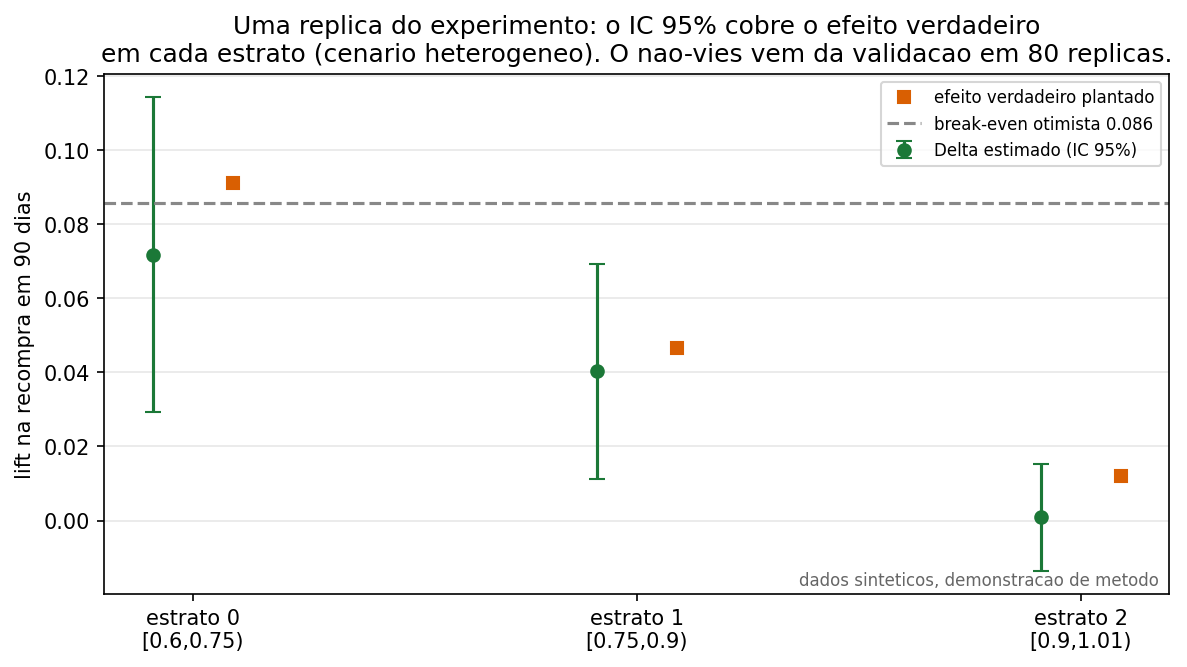
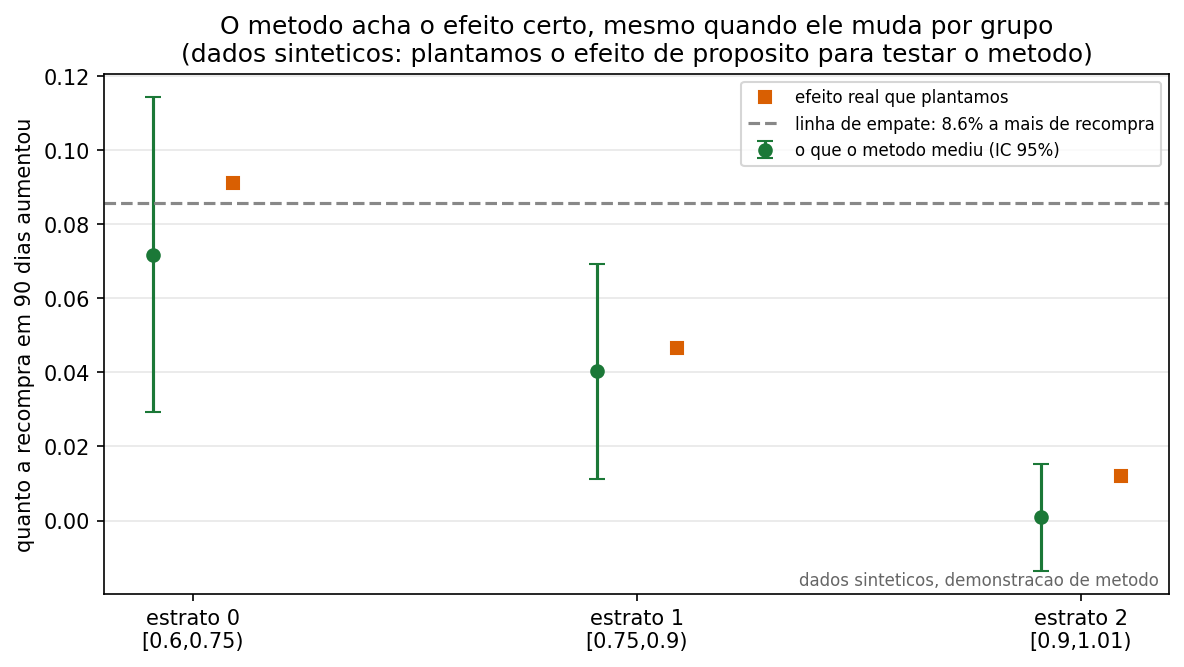
style(deploy): reduz e destaca a aba causal, reescreve textos e graficos em linguagem direta
Graficos com menos de 34rem de largura e a aba "Experimentacao causal" com
identidade visual propria (pill verde, painel com fundo destacado). Titulos e
legendas dos 5 graficos trocam jargao estatistico (ECE, Delta, break-even) por
linguagem direta, e o grafico de decisao ganha rotulos "lucro"/"prejuizo". Os
textos de cada passo passam a responder uma pergunta em portugues simples, com
resumo no topo e no fim explicando o que a aba prova e o que falta pra decidir
de verdade.

diff --git a/docs/index.html b/docs/index.html
@@ -83,47 +83,56 @@
     <section id="painel-causal" role="tabpanel" aria-labelledby="tab-causal" hidden>
       <div class="intro-row">
         <div><p class="section-label">Continuidade</p><h2>Prever o risco não prova que a ação funciona</h2></div>
-        <p>O ROI de 222% da aba anterior depende de premissas nunca medidas. Esta aba testa o método com rigor.</p>
+        <p>O ROI de 222% da aba anterior é uma conta feita em cima de dois números que ninguém mediu. Esta aba constrói a régua que mediria de verdade.</p>
       </div>
       <p class="synthetic-flag">Dados sintéticos, demonstração de método. Nenhum número aqui é resultado real do cupom.</p>
 
+      <div class="causal-resumo">
+        <p><strong>Resumo em uma frase:</strong> construímos e testamos o instrumento que decidiria se vale escalar o cupom, mas ele ainda não tem os dois números reais que faltam: quantos clientes já recompram sozinhos, e quanto vale reter um cliente. Os passos 1 e 2 provam que o instrumento funciona direito. O passo 4 mostra por que, sem esses dois números, ninguém consegue afirmar hoje se o cupom paga a própria conta.</p>
+      </div>
+
       <div class="causal-block">
         <img src="assets/causal/reliability_v1.png" alt="Curva de confiabilidade do modelo v1 antes e depois da recalibração isotônica" loading="lazy">
-        <div><h3>1. A probabilidade era confiável?</h3><p>Antes de usar P(Detrator) como corte de decisão, medimos se ela reflete risco real. O modelo original subestimava risco em toda a faixa (ECE 0,10). Recalibração isotônica corrigiu para ECE 0,013, <strong>achado real</strong> medido no dado da Fase 1.</p></div>
+        <div><h3>1. O termômetro de risco estava calibrado?</h3><p>Antes de usar "40% de risco de virar detrator" para decidir qualquer coisa, precisamos saber se esse número bate com a realidade. No dado real da Fase 1, o modelo original errava para menos em toda a faixa: dizia, por exemplo, 40% quando o risco de verdade era maior. Corrigimos essa distorção (recalibração isotônica) e o erro médio caiu de 10 pontos percentuais para 1,3. <strong>Achado real</strong>, medido no dado da Fase 1, não sintético. Sem esse ajuste, qualquer conta feita em cima da probabilidade estaria em cima de um número torto.</p></div>
       </div>
 
       <div class="causal-block">
         <img src="assets/causal/validacao_estimador.png" alt="Viés e cobertura do intervalo de confiança do estimador em 60 réplicas" loading="lazy">
-        <div><h3>2. A máquina de análise está correta?</h3><p>Antes de confiar em qualquer resultado, rodamos 60 réplicas com sementes diferentes: o estimador recupera o efeito plantado sem viés, e o intervalo de confiança cobre o valor verdadeiro ~95% das vezes.</p></div>
+        <div><h3>2. A régua de medir passou no teste antes de valer</h3><p>Antes de confiar na fórmula que vai dizer "o cupom funcionou ou não", testamos essa fórmula em 60 cenários onde já sabíamos a resposta certa de antemão (nós mesmos plantamos o efeito). Resultado: a fórmula acerta o valor certo, em média, e quando ela diz "95% de confiança" ela realmente acerta perto de 95% das vezes. Se esse teste falhasse, nenhum número dos passos seguintes seria confiável.</p></div>
       </div>
 
       <div class="causal-block">
         <img src="assets/causal/efeito_por_estrato.png" alt="Efeito estimado por estrato de risco, com intervalo de confiança" loading="lazy">
-        <div><h3>3. O efeito (sintético) por estrato</h3><p>Um A/B estratificado com sorteio 75/25 dentro de cada faixa de risco. O efeito plantado no gerador varia por estrato: maior no detrator recuperável, quase nulo no detrator quase certo.</p></div>
+        <div><h3>3. O método acha o efeito certo, grupo por grupo</h3><p>Simulamos um A/B de verdade: sorteamos clientes entre "recebe cupom" e "não recebe", separados em três grupos por nível de risco. Plantamos um efeito diferente em cada grupo de propósito, maior no detrator ainda recuperável, quase nulo no detrator quase certo, para ver se o método enxerga essa diferença. Ele enxerga: em todos os grupos, o que o método mediu bate com o efeito real que plantamos, dentro da margem de erro esperada.</p></div>
       </div>
 
       <div class="causal-block">
-        <img src="assets/causal/decisao_superficie.png" alt="Distribuição da margem incremental por cliente tratado, propagando incerteza do efeito e do valor do cliente" loading="lazy">
-        <div><h3>4. A decisão econômica</h3><p>Margem = efeito × valor do cliente retido − custo da ação. O valor do cliente não é medido (varia entre R$ 105 e R$ 350); por isso a maioria dos cenários cai em <em>zona morta</em>, não em "escalar": a incerteza real é propagada, não escondida.</p></div>
+        <img src="assets/causal/decisao_superficie.png" alt="Lucro por cliente tratado em função do valor do cliente retido, com faixa de incerteza" loading="lazy">
+        <div><h3>4. A pergunta que decide tudo: vale a pena escalar?</h3><p>Cada linha do gráfico é um grupo de risco; o eixo horizontal é o número que ainda não medimos, quanto vale reter um cliente (a faixa laranja, entre R$ 105 se contarmos só a margem e R$ 350 se contarmos a receita cheia). Abaixo da linha zero é prejuízo, o cupom custou mais do que trouxe; acima é lucro. Repare que a linha "total" cruza de prejuízo para lucro bem no meio da faixa laranja: com os dados que temos hoje, não dá para afirmar se o cupom se paga ou não. Essa incerteza não é falha do método, é a informação real que falta. Decidir escalar sem medir o valor do cliente no CRM seria apostar, não decidir.</p></div>
       </div>
 
       <div class="causal-block">
-        <img src="assets/causal/sensibilidade_p0.png" alt="Duração necessária do experimento em função do efeito mínimo detectável" loading="lazy">
-        <div><h3>5. Quanto tempo o experimento levaria</h3><p>Um efeito no break-even otimista é detectável em ~3 meses no estrato menor; um efeito intermediário estoura o teto de 6 meses. Dimensionado antes de rodar, não depois.</p></div>
+        <img src="assets/causal/sensibilidade_p0.png" alt="Duração necessária do experimento em função da taxa de recompra sem ação" loading="lazy">
+        <div><h3>5. Quanto tempo levaria para ter certeza</h3><p>Rodar esse teste com clientes reais não é instantâneo. Quanto menos clientes recompram sozinhos, sem nenhuma ação, mais tempo o teste precisa rodar para separar sinal de ruído, porque o efeito do cupom fica mais difícil de distinguir da variação normal. Por isso travamos um teto de 6 meses: se depois desse prazo o resultado ainda não for claro, a conclusão honesta é "o efeito, se existe, é pequeno demais para valer a pena no volume atual", não "vamos continuar testando para sempre".</p></div>
       </div>
 
       <div class="pavc-table">
-        <h3>O que quebra sem as mitigações do PAVC</h3>
+        <h3>O que quebra sem as proteções do desenho</h3>
+        <p class="section-note">Um experimento mal desenhado pode dar um resultado errado sem que ninguém perceba. A tabela mostra o mesmo cenário (efeito real "forte") rodado três vezes: uma com todas as proteções do desenho, e duas ignorando uma proteção de cada vez. "Δ medido" é o que o experimento diria ter visto; "Δ verdadeiro" é o efeito que de fato plantamos; "P(lucro&gt;0)" é a chance de a decisão final dar lucro.</p>
         <table>
-          <caption>Cenário base: efeito verdadeiro "forte". Cada linha ignora uma mitigação</caption>
-          <thead><tr><th>Cenário</th><th>Δ medido</th><th>Δ verdadeiro</th><th>P(margem&gt;0)</th></tr></thead>
+          <caption>Cenário base: efeito verdadeiro "forte". Cada linha ignora uma proteção do desenho</caption>
+          <thead><tr><th>Cenário</th><th>Δ medido</th><th>Δ verdadeiro</th><th>P(lucro&gt;0)</th></tr></thead>
           <tbody>
-            <tr><td>Com todas as mitigações (desenho do spec)</td><td>0,1401</td><td>0,1509</td><td>0,555</td></tr>
+            <tr><td>Com todas as proteções (desenho do spec)</td><td>0,1401</td><td>0,1509</td><td>0,555</td></tr>
             <tr><td>Contaminação do controle 30% ignorada</td><td>0,0950</td><td>0,1509</td><td>0,140</td></tr>
-            <tr><td>Janela ancorada na ação, não na entrega</td><td>0,1334</td><td>0,1509</td><td>0,510</td></tr>
+            <tr><td>Prazo contado a partir da ação, não da entrega</td><td>0,1334</td><td>0,1509</td><td>0,510</td></tr>
           </tbody>
         </table>
-        <p class="section-note">Ignorar a contaminação do controle puxa o efeito medido para baixo em quase um terço, viés que mata um programa que funcionava (Erro A).</p>
+        <p class="section-note">Ignorar a contaminação do controle (clientes do grupo controle que recebem o cupom por outro canal) puxa o efeito medido para baixo em quase um terço. Na prática, isso mataria um programa que na verdade funcionava.</p>
+      </div>
+
+      <div class="causal-resumo">
+        <p><strong>Se isso fosse um projeto real</strong>, o próximo passo seria medir os dois números que faltam (quantos clientes recompram sozinhos, quanto vale reter um cliente) e rodar essa mesma régua nos dados de verdade. Ela decidiria sozinha, sem depender de opinião, se o cupom escala, fica em teste um pouco mais, ou é desligado.</p>
       </div>
 
       <p class="section-note">Desenho completo: <a href="https://github.com/luizmaibashi/Tech-Challenge-Fase1-NPS/blob/main/docs/adr/0002-arco-de-experimentacao-causal.md">ADR-0002</a> e <a href="https://github.com/luizmaibashi/Tech-Challenge-Fase1-NPS/blob/main/docs/spec/0002-experimento-causal.md">spec</a>. Débito de engenharia resolvido: <a href="https://github.com/luizmaibashi/Tech-Challenge-Fase1-NPS/blob/main/docs/adr/0003-scorer-unico-para-o-experimento-causal.md">ADR-0003</a>. Protótipo completo: <a href="https://github.com/luizmaibashi/Tech-Challenge-Fase1-NPS/blob/main/notebooks/02_experimento_causal.ipynb">notebook</a>.</p>

diff --git a/docs/assets/style.css b/docs/assets/style.css
@@ -1,9 +1,14 @@
 :root{font-size:18px;--ink:#17221b;--muted:#526257;--canvas:#f7f8f2;--card:#fff;--line:#cfd9ce;--green:#315a40;--lime:#b6df72;--orange:#bc4e18;--soft:#e8f0df;--space:clamp(1rem,3vw,2.5rem)}*{box-sizing:border-box}body{margin:0;background:var(--canvas);color:var(--ink);font:1rem/1.6 system-ui,sans-serif}.skip-link{position:absolute;left:-999px}.skip-link:focus{left:1rem;top:1rem;background:#fff;padding:.5rem;z-index:3}.hero{padding:clamp(2.5rem,8vw,7rem) var(--space);background:var(--ink);color:#fff}.hero-inner{max-width:72rem;margin-left:auto;margin-right:auto}.eyebrow,.section-label{font-size:.78rem;text-transform:uppercase;letter-spacing:.12em;font-weight:700;color:var(--orange)}.hero .eyebrow{color:var(--lime)}h1{font-size:clamp(3rem,8vw,7rem);line-height:.9;letter-spacing:-.06em;margin:.4rem auto 1rem}h2{line-height:1.05;max-width:22ch}.lede{font-size:clamp(1.1rem,2vw,1.45rem);max-width:46ch}.decision-rail{display:grid;grid-template-columns:auto 1fr;gap:.3rem 1rem;border-top:1px solid #526257;margin-top:2.5rem;padding-top:1rem}.decision-rail strong{color:var(--lime);font-size:1.3rem}.decision-rail small{grid-column:2;color:#ccd8cd}.shell{max-width:72rem;margin:auto;padding:var(--space)}.tabs{display:flex;gap:.5rem;overflow:auto;border-bottom:1px solid var(--line);margin-bottom:2.5rem}.tabs button{background:transparent;border:0;padding:1rem .25rem;margin-right:1.2rem;color:var(--muted);font:inherit;font-weight:700;cursor:pointer;border-bottom:3px solid transparent}.tabs button[aria-selected=true]{color:var(--ink);border-color:var(--orange)}button:focus-visible,input:focus-visible{outline:3px solid var(--orange);outline-offset:3px}.intro-row{display:grid;grid-template-columns:1fr minmax(12rem,20rem);gap:2rem;align-items:end;margin-bottom:2rem}.intro-row p{color:var(--muted)}.form-grid{display:grid;grid-template-columns:repeat(3,1fr);gap:1rem}.form-grid fieldset,.roi-form label,.model-grid article{border:1px solid var(--line);background:var(--card);padding:1rem;min-width:0}.form-grid legend{font-weight:800}.form-grid label,.roi-form label{display:grid;gap:.3rem;margin:.6rem 0;font-weight:650}input{width:100%;min-height:44px;border:1px solid #99a99c;border-radius:0;padding:.55rem;background:#fff;color:var(--ink);font:inherit}.primary{align-self:end;min-height:48px;background:var(--orange);color:#fff;border:0;border-radius:0;padding:.7rem 1rem;font:inherit;font-weight:800;cursor:pointer}.primary:disabled{opacity:.6}.status{align-self:end;color:var(--muted)}.hidden{display:none}.result{margin-top:2rem;border:2px solid var(--green);background:var(--soft);padding:clamp(1rem,3vw,2rem)}.result h3{font-size:1.5rem;margin:0}.action{font-weight:800;color:var(--green)}.action.risk{color:#8d260a}.probabilities,.metrics{display:grid;grid-template-columns:repeat(3,1fr);gap:1rem;margin-top:1rem}.probabilities div,.metrics div{background:#fff;padding:1rem;border-top:4px solid var(--green)}.probabilities span,.metrics span{display:block;color:var(--muted);font-size:.85rem}.probabilities strong,.metrics strong{font-size:1.5rem}.roi-form{display:grid;grid-template-columns:repeat(3,1fr);gap:1rem}.sensitivity{margin-top:2rem;overflow:auto}.sensitivity table{border-collapse:collapse;width:100%;background:#fff}.sensitivity th,.sensitivity td{padding:.65rem;border:1px solid var(--line);text-align:right}.sensitivity th{text-align:left}.model-grid{display:grid;grid-template-columns:repeat(3,1fr);gap:1rem}.model-grid h3{margin-top:0}.importance{margin-top:2rem;max-width:42rem}.importance div{display:grid;grid-template-columns:12rem 1fr 3rem;gap:.75rem;align-items:center;margin:.5rem 0}.bar{height:.7rem;background:var(--lime)}footer{padding:2rem var(--space);border-top:1px solid var(--line);color:var(--muted);font-size:.9rem}a{color:inherit}@media(max-width:760px){.intro-row,.form-grid,.roi-form,.model-grid{grid-template-columns:1fr}.decision-rail{grid-template-columns:1fr}.decision-rail small{grid-column:auto}.probabilities,.metrics{grid-template-columns:1fr 1fr}.importance div{grid-template-columns:8rem 1fr 2.5rem}}@media(prefers-reduced-motion:no-preference){.result{animation:rise .22s ease-out}@keyframes rise{from{opacity:0;transform:translateY(8px)}to{opacity:1;transform:none}}}
 .synthetic-flag{background:var(--soft);border-left:4px solid var(--orange);padding:.75rem 1rem;font-weight:700;margin-bottom:2rem}
 .causal-block{margin-bottom:3.5rem}
-.causal-block img{display:block;width:100%;margin:0 auto 1.5rem;border:1px solid var(--line);background:#fff}
+.causal-block img{display:block;width:100%;max-width:34rem;margin:0 auto 1.5rem;border:1px solid var(--line);background:#fff}
 .causal-block h3{margin-top:0;font-size:1.6rem}
 .causal-block p{color:var(--muted);max-width:68ch;font-size:1.1rem}
+#tab-causal{background:var(--soft);border-radius:999px;padding:.6rem 1.1rem;margin-right:.5rem;border-bottom:3px solid transparent}
+#tab-causal[aria-selected=true]{background:var(--green);color:#fff}
+#painel-causal{background:var(--soft);margin:0 calc(-1*var(--space));padding:2rem var(--space);border-top:1px solid var(--line);border-bottom:1px solid var(--line)}
+.causal-resumo{background:#fff;border:2px solid var(--green);padding:1.1rem 1.4rem;margin:1.5rem 0 2.5rem;font-size:1.05rem}
+.causal-resumo strong{color:var(--green)}
 .pavc-table{margin:2.5rem 0;overflow:auto;font-size:1.1rem}
 .pavc-table table{border-collapse:collapse;width:100%;background:#fff}
 .pavc-table th,.pavc-table td{padding:.75rem;border:1px solid var(--line);text-align:right}

diff --git a/experimento_causal/reports.py b/experimento_causal/reports.py
@@ -43,18 +43,17 @@ def fig_efeito_por_estrato(cen=None):
 
     fig, ax = plt.subplots(figsize=(8, 4.6))
     ax.errorbar(x - 0.09, est["delta"], yerr=Z * est["se"], fmt="o", color=C_TRAT,
-                capsize=4, label="Delta estimado (IC 95%)")
+                capsize=4, label="o que o metodo mediu (IC 95%)")
     ax.plot(x + 0.09, est["efeito_verdadeiro"], "s", color=C_VERD,
-            label="efeito verdadeiro plantado")
+            label="efeito real que plantamos")
     ax.axhline(cfg.BREAKEVEN_LIFT_OTIMISTA, ls="--", color="#888",
-               label=f"break-even otimista {cfg.BREAKEVEN_LIFT_OTIMISTA:.3f}")
+               label=f"linha de empate: {cfg.BREAKEVEN_LIFT_OTIMISTA:.1%} a mais de recompra")
     ax.set_xticks(x)
     ax.set_xticklabels([f"estrato {i}\n{f}" for i, f in
                         zip(est['estrato'], [f'[{a},{b})' for a, b in cfg.FAIXAS_P])])
-    ax.set_ylabel("lift na recompra em 90 dias")
-    ax.set_title("Uma replica do experimento: o IC 95% cobre o efeito verdadeiro\n"
-                 "em cada estrato (cenario heterogeneo). O nao-vies vem da validacao "
-                 "em 80 replicas.")
+    ax.set_ylabel("quanto a recompra em 90 dias aumentou")
+    ax.set_title("O metodo acha o efeito certo, mesmo quando ele muda por grupo\n"
+                 "(dados sinteticos: plantamos o efeito de proposito para testar o metodo)")
     ax.legend(fontsize=8)
     ax.grid(alpha=0.3, axis="y")
     _rotulo(ax)
@@ -70,20 +69,21 @@ def fig_validacao_estimador(n_rep=80):
     a1.bar(x, v["vies"], color=C_TRAT)
     a1.axhline(0, color="#333", lw=0.8)
     a1.set_xticks(x); a1.set_xticklabels([f"estrato {i}" for i in v["estrato"]])
-    a1.set_ylabel("vies (Delta medio - efeito verdadeiro)")
-    a1.set_title(f"Vies do estimador ({n_rep} replicas)")
+    a1.set_ylabel("erro medio (o que o metodo mediu - o real)")
+    a1.set_title(f"O metodo erra pra cima ou pra baixo, em media?\n"
+                 f"({n_rep} rodadas simuladas)")
     a1.set_ylim(-0.02, 0.02)
     a1.grid(alpha=0.3, axis="y")
 
     a2.bar(x, v["cobertura_ic95"], color=C_CTRL)
-    a2.axhline(0.95, color="#d95f02", ls="--", label="nominal 0,95")
+    a2.axhline(0.95, color="#d95f02", ls="--", label="deveria acertar 95% das vezes")
     a2.set_xticks(x); a2.set_xticklabels([f"estrato {i}" for i in v["estrato"]])
-    a2.set_ylabel("cobertura do IC 95%")
+    a2.set_ylabel("taxa de acerto do intervalo de confianca")
     a2.set_ylim(0.8, 1.0)
-    a2.set_title("Cobertura do IC 95%")
+    a2.set_title("Quando o metodo diz '95% de confianca', ele acerta?")
     a2.legend(fontsize=8); a2.grid(alpha=0.3, axis="y")
     _rotulo(a2)
-    fig.suptitle("Prova de que a maquina de analise esta correta", fontsize=12)
+    fig.suptitle("Passo 2: testamos a regua de medir antes de confiar nela", fontsize=12)
     fig.tight_layout()
     fig.savefig(cfg.REPORTS_DIR / "validacao_estimador.png", dpi=150, bbox_inches="tight")
     plt.close(fig)
@@ -111,11 +111,15 @@ def fig_decisao_superficie(cen=None):
         ax.fill_between(valores, lo, margem, color=cor, alpha=0.12)
     ax.axhline(0, color="#c3c2b7", lw=1)
     ax.axvspan(cfg.VALOR_CLIENTE_RETIDO_MIN, cfg.VALOR_CLIENTE_RETIDO_MAX,
-               color="#fab219", alpha=0.15, label="faixa REVALIDAR do valor do cliente")
-    ax.set_xlabel("valor de um cliente retido (R$)")
-    ax.set_ylabel("margem incremental por cliente tratado (R$)")
-    ax.set_title("A decisao de escalar depende do valor do cliente retido\n"
-                 f"(cenario rentavel; margem = Delta x valor - R$ {cfg.CUSTO_ACAO:.0f})")
+               color="#fab219", alpha=0.15, label="faixa real, ainda nao medida")
+    ax.text(0.015, 0.95, "lucro", transform=ax.transAxes, fontsize=9,
+            color="#52514e", ha="left", va="top")
+    ax.text(0.015, 0.05, "prejuizo", transform=ax.transAxes, fontsize=9,
+            color="#52514e", ha="left", va="bottom")
+    ax.set_xlabel("quanto vale reter esse cliente (R$)")
+    ax.set_ylabel("lucro por cliente que recebeu o cupom (R$)")
+    ax.set_title("O lucro por cliente depende de um numero que ainda nao medimos\n"
+                 f"(cenario rentavel; lucro = efeito x valor do cliente - R$ {cfg.CUSTO_ACAO:.0f} de custo)")
     ax.legend(fontsize=8)
     ax.grid(alpha=0.3)
     _rotulo(ax)
@@ -128,14 +132,14 @@ def fig_sensibilidade_p0():
     fig, ax = plt.subplots(figsize=(8, 4.4))
     for escopo, cor in [("total", C_TRAT), (0, C_CTRL)]:
         s = sensibilidade_p0(cfg.BREAKEVEN_LIFT_OTIMISTA, escopo=escopo)
-        rot = "toda a populacao elegivel" if escopo == "total" else "estrato 0 (o menor)"
+        rot = "toda a populacao elegivel" if escopo == "total" else "estrato 0 (o menor grupo)"
         ax.plot(s["p0"], s["duracao_meses"], "o-", color=cor, label=rot)
     ax.axhline(cfg.DURACAO_MAX_MESES, color="#d95f02", ls="--",
-               label=f"teto pre-registrado ({cfg.DURACAO_MAX_MESES} meses)")
-    ax.set_xlabel("p0 REVALIDAR - taxa de recompra 90d sem acao")
-    ax.set_ylabel("duracao do experimento (meses)")
-    ax.set_title("Duracao para detectar um lift no break-even otimista (0,086)\n"
-                 "vs a taxa-base de recompra, que ainda nao foi medida")
+               label=f"teto do experimento ({cfg.DURACAO_MAX_MESES} meses)")
+    ax.set_xlabel("taxa de recompra sem nenhuma acao (ainda nao medida)")
+    ax.set_ylabel("tempo de teste necessario (meses)")
+    ax.set_title("Quanto tempo o teste levaria, dependendo de quantos clientes\n"
+                 "ja recompram sozinhos, sem receber cupom nenhum")
     ax.legend(fontsize=8)
     ax.grid(alpha=0.3)
     _rotulo(ax)

diff --git a/experimento_causal/calibracao_modelo.py b/experimento_causal/calibracao_modelo.py
@@ -98,33 +98,33 @@ def _grafico(y, proba_cru, proba_calib, ece_cru, ece_calib, brier, destino):
     acerto_c, conf_c = calibration_curve(y, proba_cru, n_bins=10, strategy="quantile")
     acerto_r, conf_r = calibration_curve(y, proba_calib, n_bins=10, strategy="quantile")
 
-    ax1.plot([0, 1], [0, 1], "--", color="#888", label="calibracao perfeita")
+    ax1.plot([0, 1], [0, 1], "--", color="#888", label="acerto perfeito")
     ax1.plot(conf_c, acerto_c, "o-", color="#e74c3c",
-             label=f"modelo v1 cru  (ECE {ece_cru:.3f})")
+             label=f"modelo original (erra {ece_cru:.1%} em media)")
     ax1.plot(conf_r, acerto_r, "s-", color="#2ecc71",
-             label=f"recalibrado (isotonica)  (ECE {ece_calib:.3f})")
-    ax1.set_xlabel("probabilidade prevista de ser detrator")
-    ax1.set_ylabel("frequencia observada de detrator")
-    ax1.set_title(f"Curva de confiabilidade  |  Brier cru = {brier:.3f}")
+             label=f"corrigido (erra {ece_calib:.1%} em media)")
+    ax1.set_xlabel("risco que o modelo disse")
+    ax1.set_ylabel("risco que de fato aconteceu")
+    ax1.set_title("O modelo estava dizendo a verdade?")
     ax1.legend(fontsize=8, loc="upper left")
     ax1.grid(alpha=0.3)
     ax1.set_xlim(0, 1)
     ax1.set_ylim(0, 1)
 
     ax2.hist(proba_calib[y == 1], bins=30, alpha=0.6, color="#d95f02",
-             label="detrator real")
+             label="virou detrator de fato")
     ax2.hist(proba_calib[y == 0], bins=30, alpha=0.6, color="#1b9e77",
-             label="nao detrator real")
+             label="nao virou detrator")
     ax2.axvline(cfg.P_DETRATOR_ELEGIVEL, color="#2c3e50", ls=":",
-                label=f"corte elegibilidade {cfg.P_DETRATOR_ELEGIVEL}")
-    ax2.set_xlabel("probabilidade recalibrada de ser detrator")
+                label=f"corte de elegibilidade ({cfg.P_DETRATOR_ELEGIVEL:.0%} de risco)")
+    ax2.set_xlabel("risco ja corrigido")
     ax2.set_ylabel("clientes")
-    ax2.set_title("Distribuicao das probabilidades recalibradas")
+    ax2.set_title("Quantos clientes ficam de cada lado do corte")
     ax2.legend(fontsize=8)
     ax2.grid(alpha=0.3)
 
-    fig.suptitle(f"Modelo v1 - diagnostico de calibracao "
-                 f"(dataset real da Fase 1, n={len(y)})", fontsize=12)
+    fig.suptitle(f"Passo 1: o termometro de risco estava calibrado? "
+                 f"(dado real da Fase 1, n={len(y)} pedidos)", fontsize=12)
     fig.tight_layout()
     fig.savefig(destino, dpi=150, bbox_inches="tight")
     plt.close(fig)
